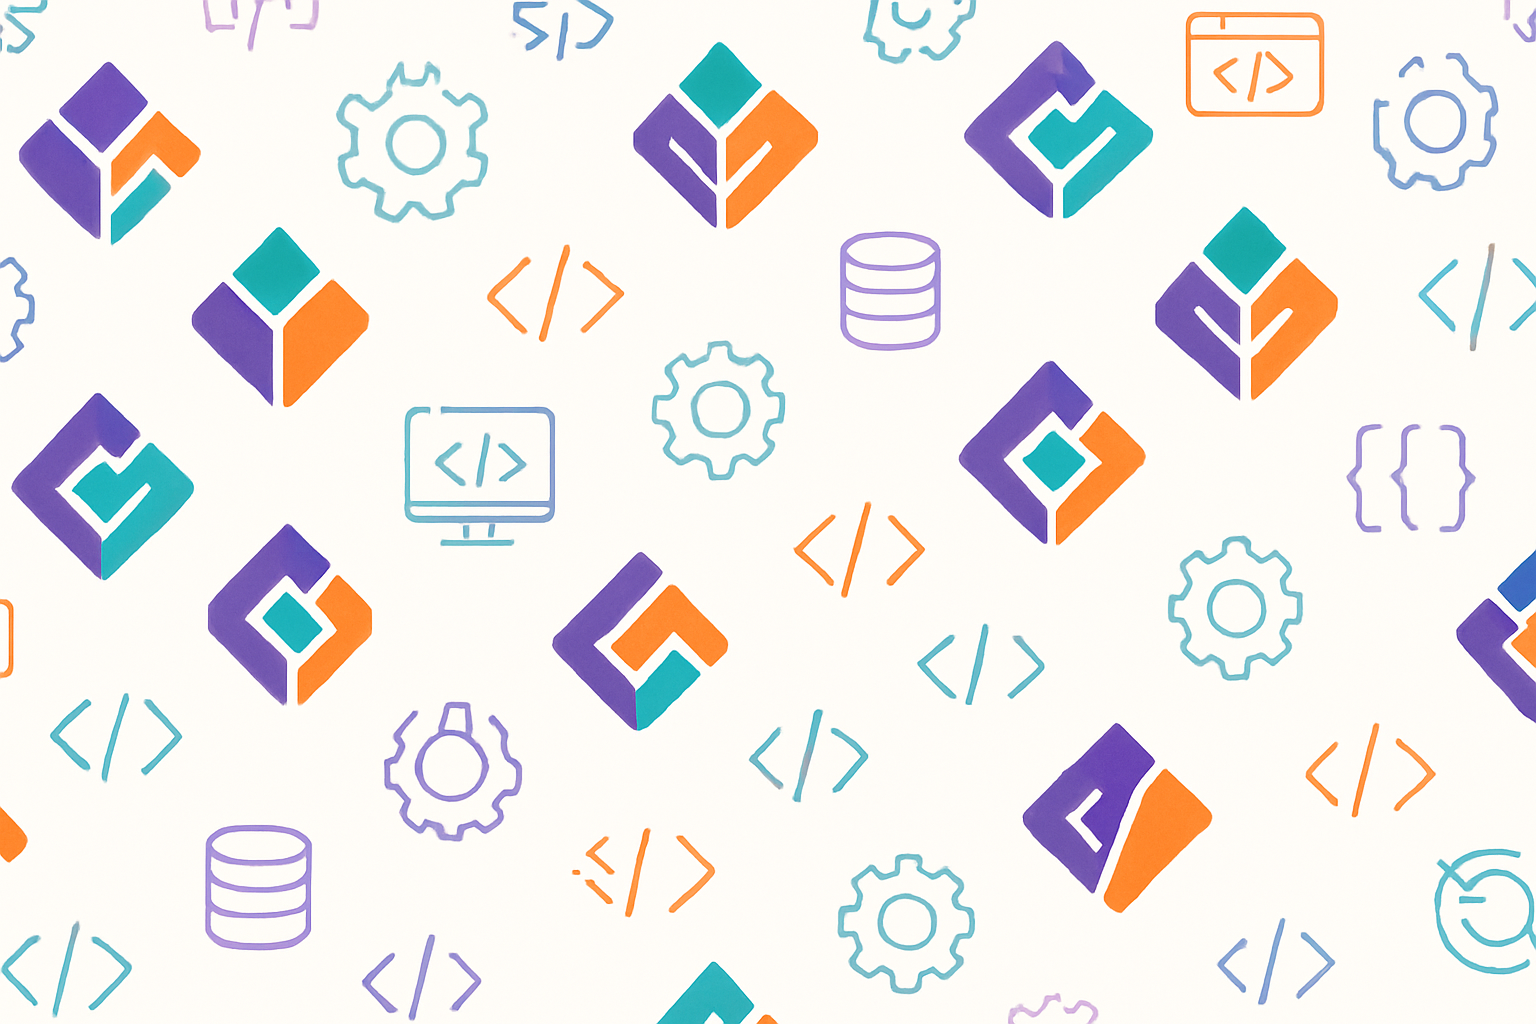
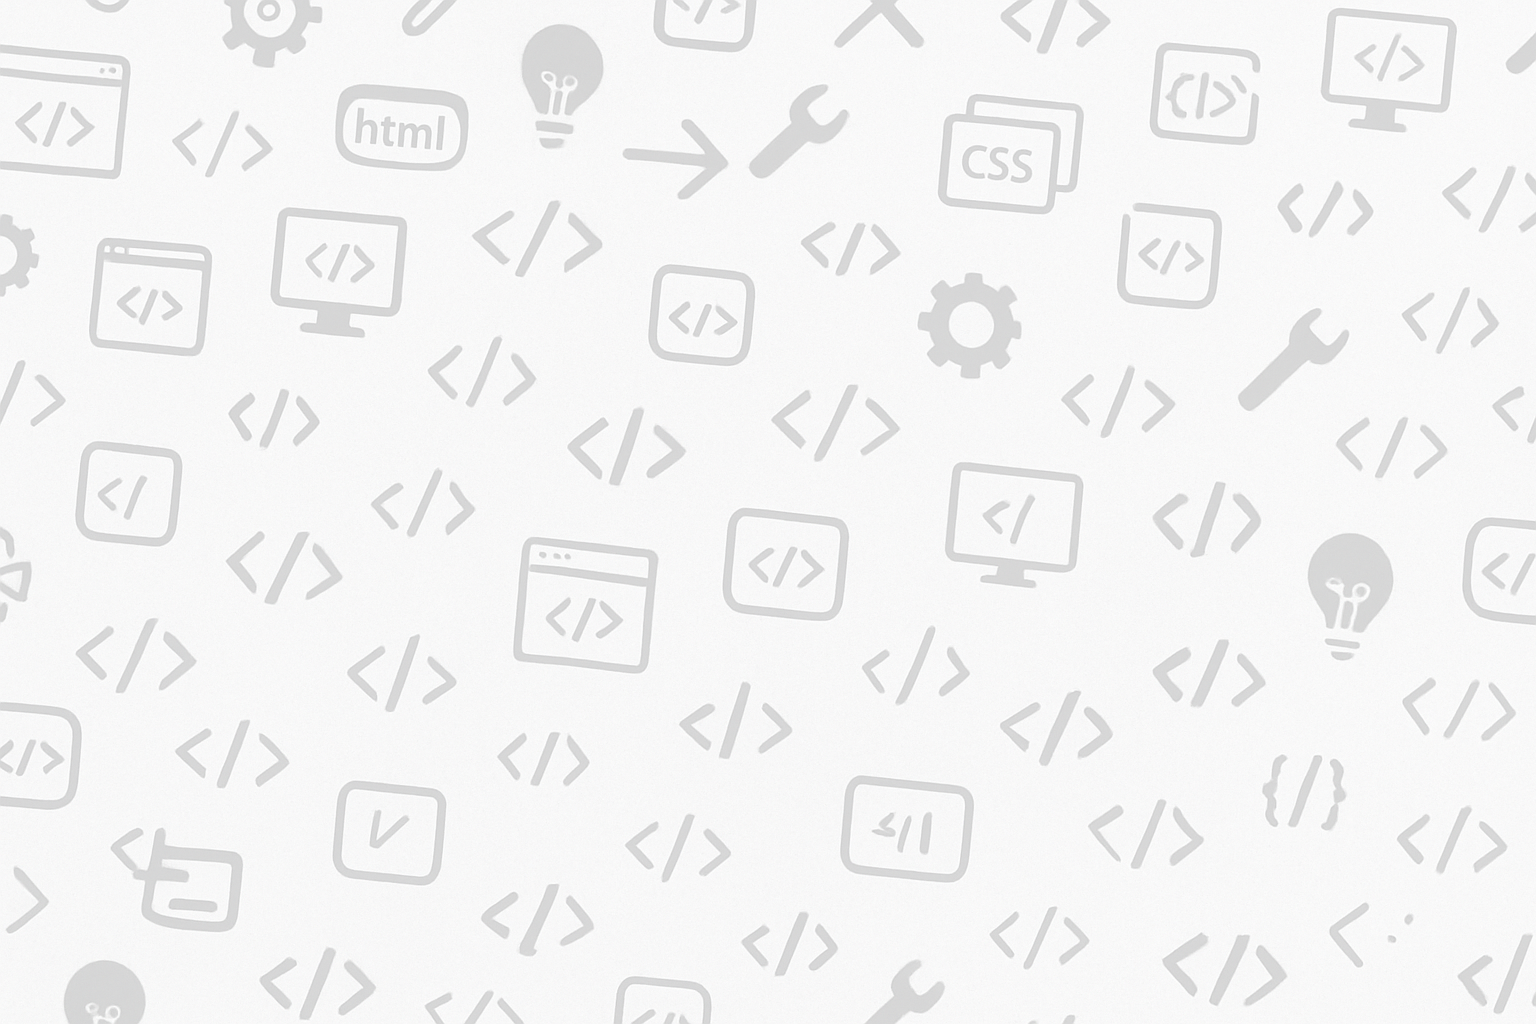
feat: implement theme toggle functionality and update dependencies
- Added a theme toggle button in App.vue to switch between light and dark modes.
- Updated background images and CSS variables for dynamic theming.
- Enhanced tsconfig.json to include "node" types for better type support.
- Updated @types/node dependency to version 22.15.3 in package.json and package-lock.json.

diff --git a/src/App.vue b/src/App.vue
@@ -7,6 +7,10 @@
       <nav class="nav-links">
         <router-link to="/">All Coaches</router-link> |
         <router-link to="/requests">Requests</router-link>
+        <button class="theme-toggle" @click="toggleTheme">
+          <span v-if="isDarkMode">🌞</span>
+          <span v-else>🌙</span>
+        </button>
       </nav>
     </nav>
   </header>
@@ -21,17 +25,39 @@
 import { defineComponent } from "vue";
 import { mapActions } from "vuex";
 import FlowBite from "./components/layout/FlowBite.vue";
+import lightBackground from './assets/light-mode-background.png';
+import darkBackground from './assets/dark-mode-background.png';
 
 export default defineComponent({
   name: "App",
   components: {
     FlowBite,
   },
+  data() {
+    return {
+      isDarkMode: false,
+      lightBackground,
+      darkBackground,
+    };
+  },
   methods: {
     ...mapActions("Request", ["fetchRequests"]),
+    toggleTheme() {
+      this.isDarkMode = !this.isDarkMode;
+      const theme = this.isDarkMode ? 'dark' : 'light';
+      document.documentElement.setAttribute('data-theme', theme);
+      document.body.style.backgroundImage = `url(${this.isDarkMode ? this.darkBackground : this.lightBackground})`;
+      localStorage.setItem('theme', theme);
+    },
   },
   mounted() {
     this.fetchRequests();
+    const savedTheme = localStorage.getItem('theme');
+    if (savedTheme) {
+      this.isDarkMode = savedTheme === 'dark';
+      document.documentElement.setAttribute('data-theme', savedTheme);
+      document.body.style.backgroundImage = `url(${this.isDarkMode ? this.darkBackground : this.lightBackground})`;
+    }
   },
 });
 </script>
@@ -49,35 +75,46 @@ html {
 
 
 :root {
-  --background-image: url("@/assets/light-mode-background.png");
+  --background-image: url("./assets/light-mode-background.png");
+  --text-color: #333;
+  --bg-color: #ffffff;
+  --header-bg: #3d008d;
+  --link-color: #f391e3;
+  --link-hover-border: #f391e3;
 }
 
 [data-theme="dark"] {
-  --background-image: url("@/assets/dark-mode-background.png");
+  --background-image: url("./assets/dark-mode-background.png");
+  --text-color: #ffffff;
+  --bg-color: #1a1a1a;
+  --header-bg: #2d0066;
+  --link-color: #ff9ef0;
+  --link-hover-border: #ff9ef0;
 }
 
 header {
-  
   width: 100%;
   height: 5rem;
-  background-color: #3d008d;
+  background-color: var(--header-bg);
   display: flex;
   justify-content: center;
   align-items: center;
+  transition: background-color 0.3s ease;
 }
 
 header a {
   text-decoration: none;
-  color: #f391e3;
+  color: var(--link-color);
   display: inline-block;
   padding: 0.75rem 1.5rem;
   border: 1px solid transparent;
+  transition: all 0.3s ease;
 }
 
 a:active,
 a:hover,
 a.router-link-active {
-  border: 1px solid #f391e3;
+  border: 1px solid var(--link-hover-border);
 }
 
 h1 {
@@ -96,7 +133,6 @@ h1 a.router-link-active {
 }
 
 .nav-bar {
-  
   width: 100%;
   margin: auto;
   margin-right: 1rem;
@@ -143,9 +179,34 @@ header li {
 }
 
 #app {
-  background-image: url("./assets/light-mode-background.png");
+  background-image: var(--background-image);
   background-repeat: repeat;
   background-attachment: fixed;
   min-height: 100vh;
+  color: var(--text-color);
+  background-color: var(--bg-color);
+  transition: all 0.3s ease;
+}
+
+.theme-toggle {
+  background: none;
+  border: none;
+  cursor: pointer;
+  font-size: 1.5rem;
+  padding: 0.5rem;
+  margin-left: 1rem;
+  transition: transform 0.3s ease;
+}
+
+.theme-toggle:hover {
+  transform: scale(1.1);
+}
+
+body {
+  margin: 0;
+  padding: 0;
+  color: var(--text-color);
+  background-color: var(--bg-color);
+  transition: background-color 0.3s ease, color 0.3s ease;
 }
 </style>
